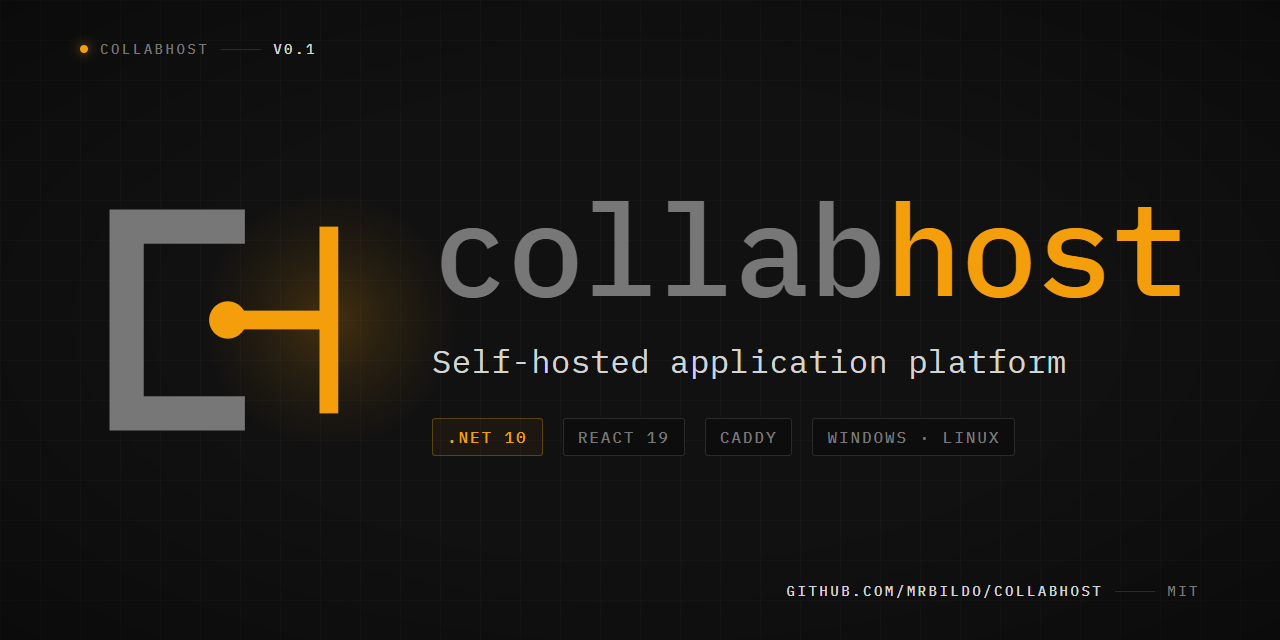
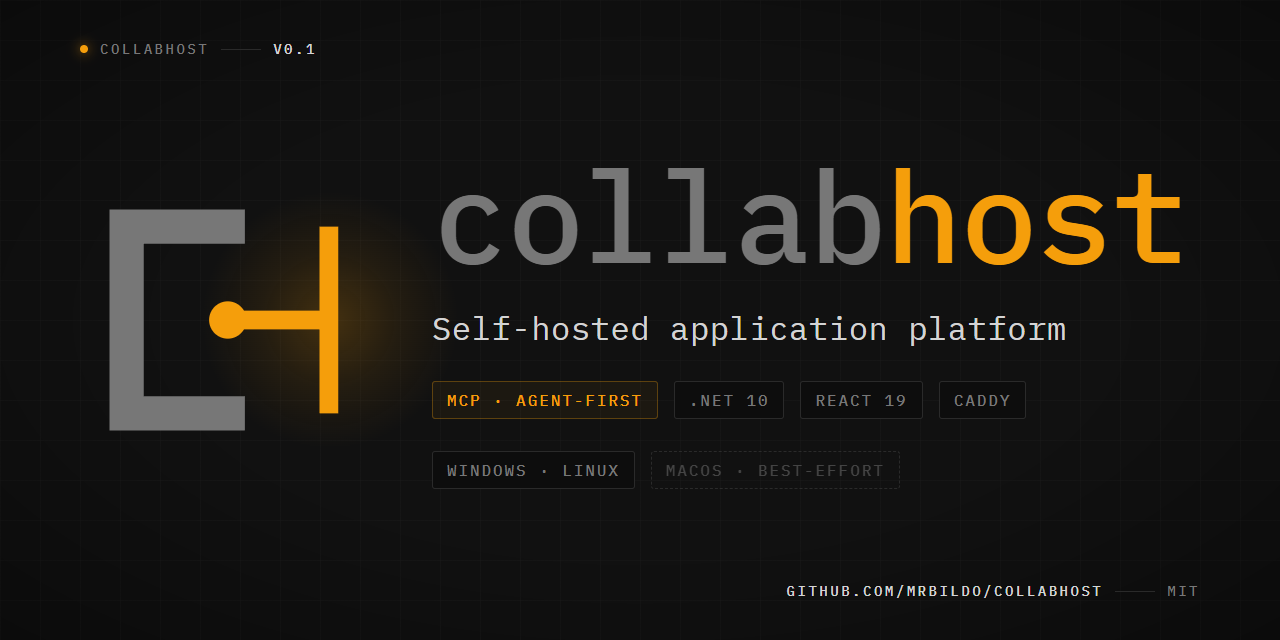
docs: surface macOS as best-effort + agent-first MCP indicator (#151) (#83)
* docs: surface macOS as best-effort platform tier (#151)

- Reframe hero subtitle to include macOS without weakening Windows/Linux emphasis
- Expand intro paragraph with a link to Platform support
- Add Platform support section with three-tier table: Windows/Linux first-class, macOS best-effort
- Add brew install line to Caddy install section for macOS readers

Accuracy fix: the README read as if macOS would not run at all. It does, via FallbackProcessRunner, but with no Job Objects, no cgroups, no orphan protection. Framing now matches reality: Windows and Linux are first-class; macOS is best-effort.

* docs: add macOS and MCP indicators to social preview (#151)

- Add `MCP · AGENT-FIRST` as an amber-accent lead chip — signals the product's primary differentiator at first glance. Same amber accent as `host` in the wordmark.
- Split platform info onto its own chip row. `Windows · Linux` (solid, first-class) and `macOS · Best-effort` (dashed border, muted color, reduced opacity — clearly a lower tier).
- `.NET 10` demoted from amber to neutral since MCP now leads with amber — one amber chip reads cleaner than two competing for attention.

Composition survives Twitter-card scale (~400px wide): the amber chip, the wordmark, and the tier distinction on the platform row all remain readable and legible at ~30% scale.

Regenerated PNG via Playwright at 1280x640 from docs/social-preview.html.

Verification:
- Dimensions: 1280x640 exact
- File size: 86.9 KB (well under 1 MB)
[…]

diff --git a/docs/social-preview.html b/docs/social-preview.html
@@ -131,8 +131,9 @@
       .meta {
         display: flex;
         align-items: center;
-        gap: 20px;
-        margin-top: 8px;
+        gap: 16px;
+        margin-top: 4px;
+        flex-wrap: wrap;
       }
 
       .chip {
@@ -152,6 +153,15 @@
         color: var(--wm-amber);
         border-color: rgba(245, 158, 11, 0.3);
         background: rgba(245, 158, 11, 0.05);
+      }
+
+      /* Muted chip — signals best-effort / lower tier (used for macOS).
+         Dashed border + reduced opacity communicates "present but not first-class". */
+      .chip--muted {
+        color: #555555;
+        border: 1px dashed #333333;
+        background: transparent;
+        opacity: 0.75;
       }
 
       /* Top/bottom corner rules — schematic frame */
@@ -247,10 +257,14 @@
         </div>
         <div class="tagline">Self-hosted application platform</div>
         <div class="meta">
-          <span class="chip chip--accent">.NET 10</span>
+          <span class="chip chip--accent">MCP &middot; Agent-first</span>
+          <span class="chip">.NET 10</span>
           <span class="chip">React 19</span>
           <span class="chip">Caddy</span>
+        </div>
+        <div class="meta">
           <span class="chip">Windows &middot; Linux</span>
+          <span class="chip chip--muted">macOS &middot; Best-effort</span>
         </div>
       </div>
     </div>

diff --git a/README.md b/README.md
@@ -6,7 +6,7 @@
 
 <p align="center">
   A self-hosted control plane for your workstation — operated from a dashboard, or driven by agents through a built-in MCP server.<br/>
-  Cross-platform. Windows and Linux.
+  First-class on Windows and Linux. Runs on macOS as best-effort.
 </p>
 
 <p align="center">
@@ -26,7 +26,7 @@ Collabhost gives you a single control plane for everything running on your machi
 
 If you're building an AI harness, agent framework, or multi-agent system that needs to manage local infrastructure, Collabhost is the layer that sits underneath. See [For Agents](#for-agents) for MCP configuration.
 
-It runs natively on **Windows** and **Linux** with platform-specific process management — no WSL required on Windows, no emulation layer on Linux. Think of it as a lightweight, self-hosted Heroku for your workstation — a control plane that stays out of your way until something goes wrong.
+It runs natively on **Windows** and **Linux** with platform-specific process management — no WSL required on Windows, no emulation layer on Linux. macOS works too, in a best-effort mode with reduced process containment — see [Platform support](#platform-support) for the tier breakdown. Think of it as a lightweight, self-hosted Heroku for your workstation — a control plane that stays out of your way until something goes wrong.
 
 <p align="center">
   <img src="docs/screenshots/dashboard.png" alt="Collabhost Dashboard — stats, app table, and activity feed" width="900" />
@@ -59,6 +59,18 @@ It runs natively on **Windows** and **Linux** with platform-specific process man
 **User management** — Header-based auth with administrator and agent roles. One-time API key reveal on creation. The same key authenticates the dashboard, the REST API, and the MCP server — mint a key for an agent and it can operate the platform.
 
 **Technology probing** — Automatic detection of runtimes, frameworks, and dependencies for registered apps. No manual tagging required. Surfaces in the dashboard and in `get_app` MCP responses.
+
+## Platform support
+
+Process supervision is the piece of Collabhost that differs most by platform. The control plane itself — API, dashboard, MCP server, SQLite, Caddy integration — runs identically everywhere .NET 10 does. Process containment does not.
+
+| Platform | Tier | How processes are supervised |
+|---|---|---|
+| **Windows** | **First-class** | `CreateProcess` P/Invoke with dedicated process groups, graceful shutdown via `GenerateConsoleCtrlEvent`, orphan protection through Win32 Job Objects. |
+| **Linux** | **First-class** | `setsid` process groups with `SIGTERM`/`SIGKILL` lifecycle, cgroup v2 containment. Orphan-proof. |
+| macOS | *Best-effort* | `FallbackProcessRunner`. Processes start and stop. No Job Objects, no cgroups, no orphan protection — if Collabhost crashes, child processes may outlive it. |
+
+Windows and Linux are the supported deployment targets. macOS is supported for local development and tinkering; don't expect parity.
 
 ## A tour
 
@@ -142,6 +154,12 @@ sudo apt install -y debian-keyring debian-archive-keyring apt-transport-https
 curl -1sLf 'https://dl.cloudsmith.io/public/caddy/stable/gpg.key' | sudo gpg --dearmor -o /usr/share/keyrings/caddy-stable-archive-keyring.gpg
 curl -1sLf 'https://dl.cloudsmith.io/public/caddy/stable/debian.deb.txt' | sudo tee /etc/apt/sources.list.d/caddy-stable.list
 sudo apt update && sudo apt install caddy
+```
+
+**macOS** (best-effort — see [Platform support](#platform-support)):
+
+```bash
+brew install caddy
 ```
 
 See [caddyserver.com/docs/install](https://caddyserver.com/docs/install) for other platforms.
